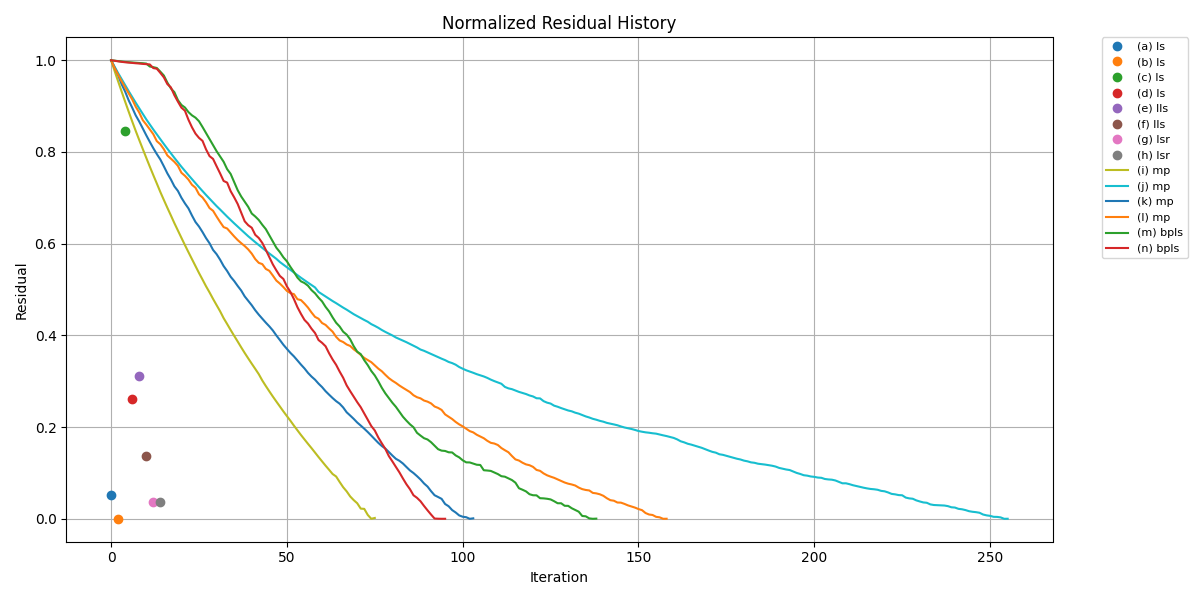
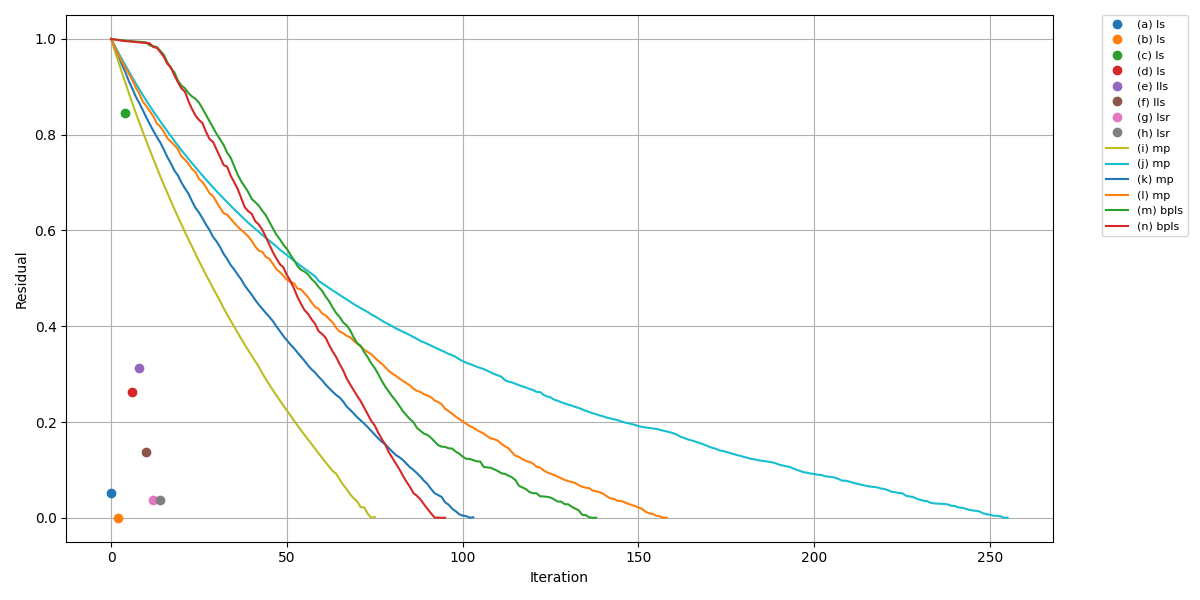
doc: fixed flattened dimensions

diff --git a/stringart/utils/perf_analyzer.py b/stringart/utils/perf_analyzer.py
@@ -14,7 +14,6 @@ import numpy as np
 from matplotlib import gridspec
 from matplotlib.colors import Colormap
 from skimage import io
-from skimage.metrics import normalized_root_mse
 from stringart.solver import Solver
 from stringart.utils.image import ImageWrapper, crop_image, masked_rmse
 from stringart.utils.time_memory_format import (
@@ -666,7 +665,6 @@ def plot_residuals(y_data: List[np.ndarray], labels: List[str], plot_name: str, 
         else:
             ax.plot(range(len(y)), y, label=label)
 
-    ax.set_title(plot_name)
     ax.set_xlabel("Iteration")
     ax.set_ylabel("Residual")
     ax.legend(fontsize=8, loc="upper left", bbox_to_anchor=(1.05, 1), borderaxespad=0.0)

diff --git a/docs/readmes/01_problem_definition.md b/docs/readmes/01_problem_definition.md
@@ -57,7 +57,7 @@ y = \text{The initial grayscale image}
 m = \text{The number of rows and columns in the image, the image is square (m, m)}
 ```
 ```math
-b = \text{The flattened row-wise version of the image. } b \in \mathbb{R}^{m \times m}
+b = \text{The flattened row-wise version of the image. } b \in \mathbb{R}^{m^2}
 ```
 ```math
 N = \text{The Number of pegs used}
@@ -70,7 +70,7 @@ n = {N \choose 2} \text{, the number of lines}
 A_i = \text{A matrix representing the } i \text{-th line drawn on the canvas}
 ```
 ```math
-A = \text{For each } A_i \text{, the corresponding column is the flattened row-wise version of } A_i. \space A \in \mathbb{R}^{m \times m, \space n}
+A = \text{For each } A_i \text{, the corresponding column is the flattened row-wise version of } A_i. \space A \in \mathbb{R}^{m^2, \space n}
 ```
 
 ```math

diff --git a/docs/readmes/11_binary_projection_ls.md b/docs/readmes/11_binary_projection_ls.md
@@ -5,11 +5,11 @@ This module solves binary-constrained least squares problems using a greedy proj
 ## Terminology
 
 ```math
-\text{A matrix: } A \in \mathbb{R}^{m \times m, n}
+\text{A matrix: } A \in \mathbb{R}^{m^2, \space n}
 ```
 
 ```math
-\text{A target vector: } b \in \mathbb{R}^{m \times m}
+\text{A target vector: } b \in \mathbb{R}^{m^2}
 ```
 
 I aim to solve the constrained least squares problem:
@@ -92,7 +92,7 @@ h = \begin{bmatrix}
 Where:
 
 ```math
-I \in \mathbb{R}^{n \times n} \text{ is the identity matrix}
+I \in \mathbb{R}^{n, \space n} \text{ is the identity matrix}
 ```
 
 ```math
